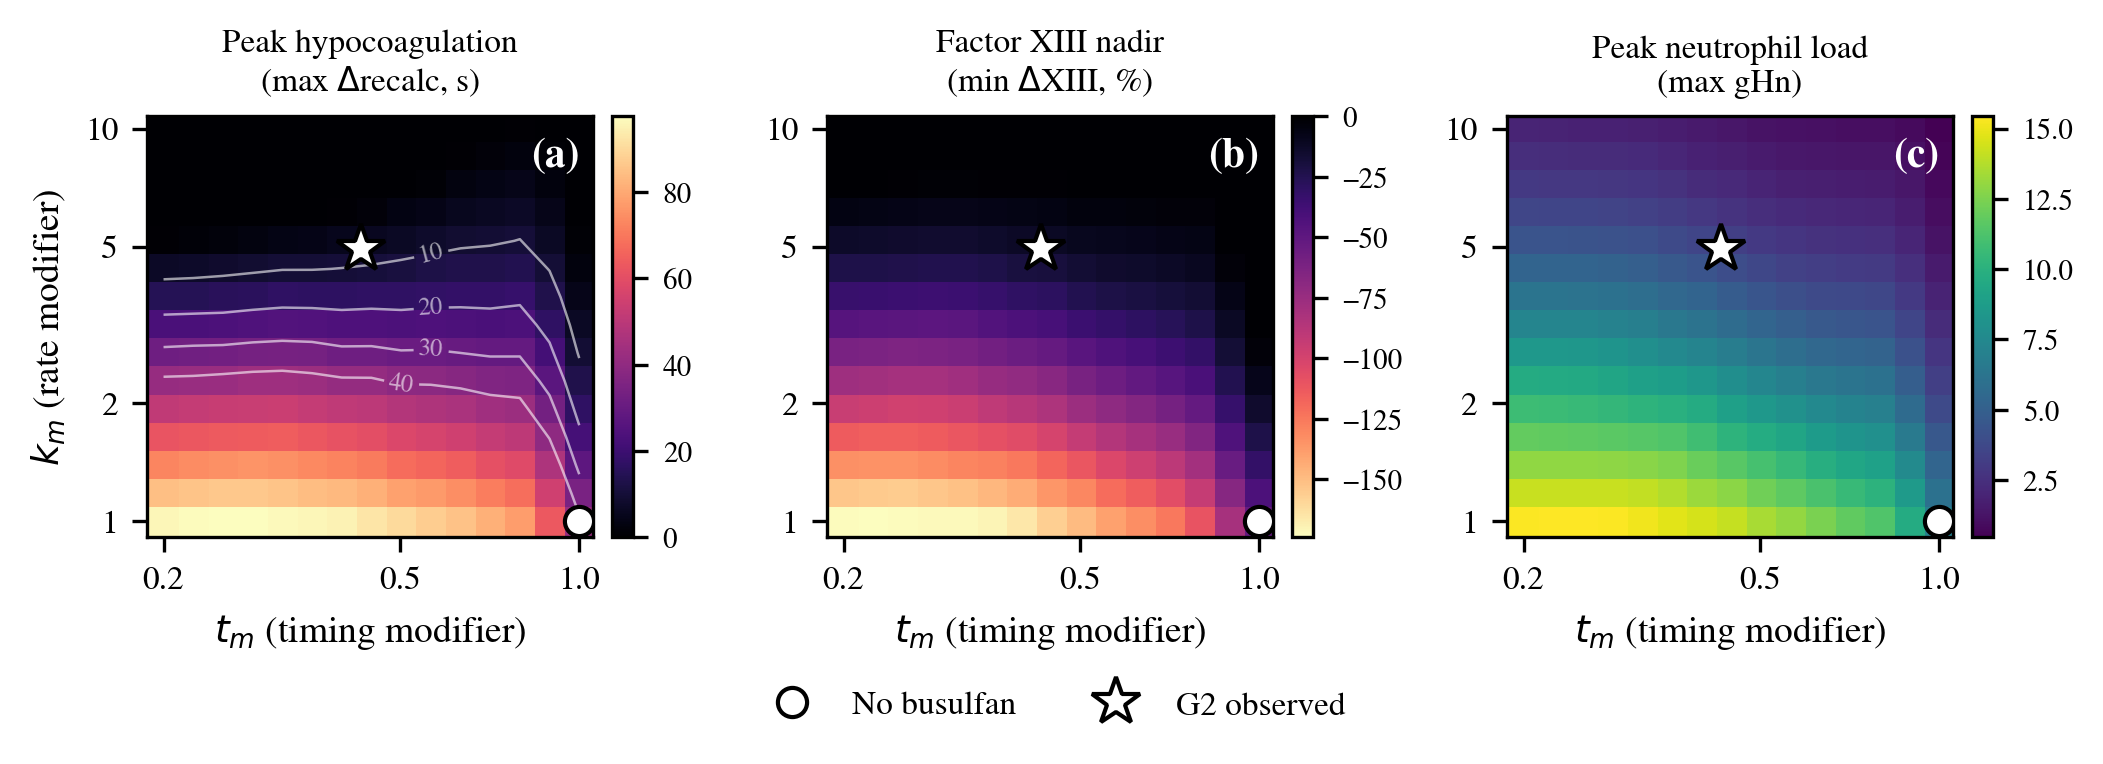
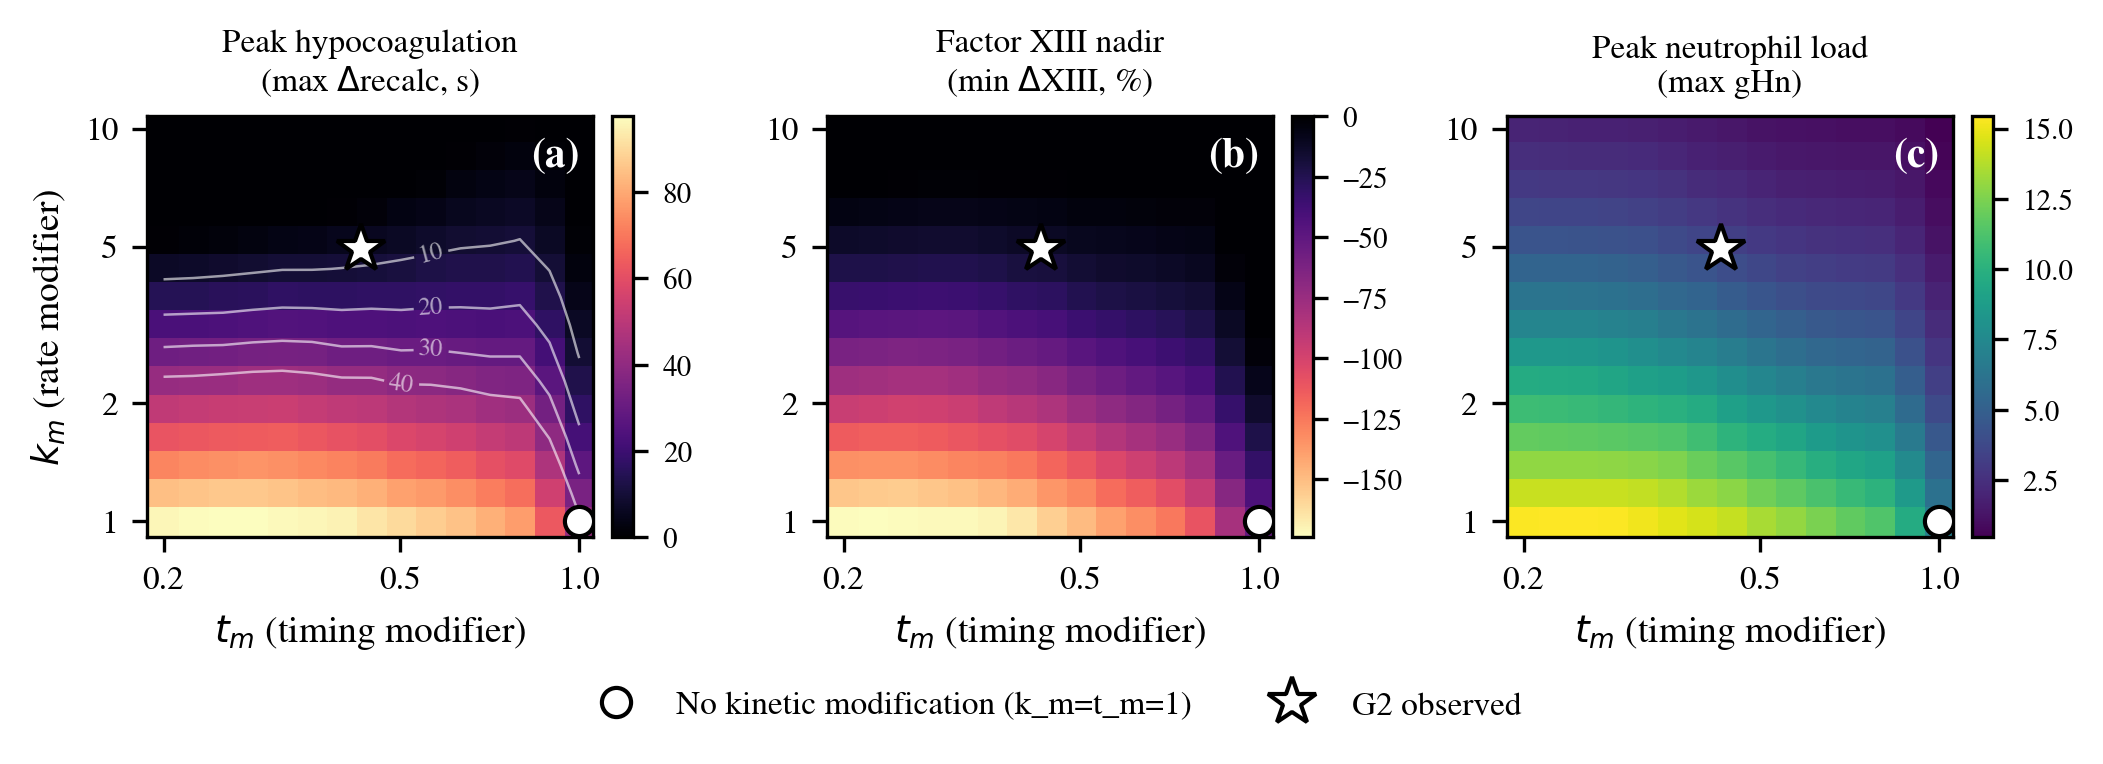
fix t_m mislabels in Fig 4/5 + S6.2.1: rate-driven protection, honest baselines
A pre-bioRxiv review (Editor + Developer cross-check, both verified against the
saved phase-diagram surfaces) found a cluster of mislabels around the (k_m, t_m)
dose-response, all sharing one root: on Figures 4/5 the neutrophil profile is the
Group II (suppressed-count) profile throughout, so the "k_m=t_m=1" cell is NOT
true no-busulfan (that is the Group I profile, Table 3, ~147 s) but the kinetics-
off corner of the 2x2 (cell C). Two t_m monotonicity statements were also wrong:
along t_m, lowering t_m RAISES severity (at k_m=1: 41.6 s at t_m=1 -> 92.3 s at
t_m~0.45 -> 96.1 s at t_m=0.2), so the fitted Group II protection is carried by
the rate modifier k_m; the low fitted t_m~0.43 (earlier inflammatory peak) is
mildly anti-protective, not protective. No surface, data, or computed value
changed — all S6.2 numbers (41.6/5.8/7x, -52.5/-11.8/4.5x, 206/83/2.5x) verified
correct against the JSON; these are label/sign-of-statement fixes only.

Seven edits + regenerated Fig 4/5:
- make_fig4.py: marker legend "No busulfan" -> "No kinetic modification (k_m=t_m=1)".
- draft.md Fig 4 caption: "no-busulfan reference" -> "no-kinetic-modification
  reference (... Group II count profile)"; monotonicity now "increasing k_m ...
  and with increasing t_m", with the k_m-carries-protection / t_m-mildly-anti-
  protective clause.
- S6.2.1: both t_m sentences corrected — "decreasing t_m" -> "increasing t_m"
  with the 41.6/92.3/96.1 progression; "time compression is the main protective
[…]

Changed region(s): [[0.2782, 0.9031, 0.7418, 0.9634]]

diff --git a/analyses/30_myelosan_dose/make_fig4.py b/analyses/30_myelosan_dose/make_fig4.py
@@ -73,7 +73,7 @@ def main():
 
         # reference points (neutral: white-edged)
         ax.plot(1.0, 1.0, marker="o", color="white", ms=7, mec="black",
-                mew=1.0, zorder=5, label="No busulfan")
+                mew=1.0, zorder=5, label="No kinetic modification (k_m=t_m=1)")
         ax.plot(TM_BASELINE_G2, KM_BASELINE_G2, marker="*", color="white",
                 ms=12, mec="black", mew=1.0, zorder=5,
                 label="G2 observed")

diff --git a/analyses/30_myelosan_dose/make_fig5.py b/analyses/30_myelosan_dose/make_fig5.py
@@ -48,7 +48,7 @@ def main():
 
     # no-myelosan level (km=1) reference
     ax.axhline(med[0], color="0.7", lw=0.7, ls=":", zorder=1)
-    ax.annotate("no busulfan", xy=(km[0], med[0]), xytext=(km[0] + 0.3, med[0] - 6),
+    ax.annotate("k_m=1 (no rate modification)", xy=(km[0], med[0]), xytext=(km[0] + 0.3, med[0] - 6),
                 fontsize=7, color="0.4", va="top")
 
     # observed G2 operating point (km=4.93)

diff --git a/manuscript/draft.md b/manuscript/draft.md
@@ -80,11 +80,11 @@ Table 3. Modeled severity metrics versus the corresponding in-sample Group I obs
 While the in-sample factor XIII and fibrinogen nadirs are accurately captured, the peak recalcification time is underestimated by 29%. Crucially, the model-predicted coagulopathy peak occurs precisely on day 11, aligning with the window of maximum empirical hypocoagulation and mortality (Figure 1, grey band). The model thus provides a directional and temporal representation of the pathogenetic landscape underlying cohort survival.
 ### Virtual experiments predict a biphasic therapeutic window and independent thresholds
 #### Dose–response dependence
-Holding the Group II neutrophil profile fixed, activating the fitted kinetic modifiers reduces peak hypocoagulation approximately 6-fold relative to the no-kinetic-effect case (§S6.5), while the integrated coagulation disturbance falls approximately 2.5-fold; across the full $k_m$ range, the dose-response surface shows a corresponding $\approx$7-fold corner reduction (Figure 4a, Figure 5). Decomposing this protective effect reveals that the absolute reduction in circulating neutrophil count and the modification of reaction kinetics function as pathways of comparable magnitude, yielding a 3.4-fold and 3.8-fold reduction in isolation, respectively. Their combined implementation drives the full 21-fold attenuation due to positive nonlinear interactions mediated by the effective coagulation load $g_{Hn}$ (Figure 4c; full dose–response phase diagrams and severity-metric definitions in Supplementary Appendix §S6).
+Holding the Group II neutrophil profile fixed, activating the fitted kinetic modifiers reduces peak hypocoagulation approximately 6-fold relative to the no-kinetic-effect case (§S6.5), while the integrated coagulation disturbance falls approximately 2.5-fold; across the full $k_m$ range, the dose-response surface shows a corresponding $\approx$7-fold corner reduction (Figure 4a, Figure 5). Decomposing this protective effect reveals that the absolute reduction in circulating neutrophil count and the modification of reaction kinetics function as pathways of comparable magnitude, yielding a 3.4-fold and 3.8-fold reduction in isolation, respectively. Their combined implementation drives the full 21-fold attenuation due to positive nonlinear interactions mediated by the effective coagulation load $g_{Hn}$ (Figure 4c; full dose–response phase diagrams and severity-metric definitions in Supplementary Appendix §S6). Within this kinetic axis, the protection is carried by the rate modifier $k_m$: severity falls monotonically as $k_m$ increases, whereas lowering $t_m$ (an earlier inflammatory peak) modestly raises it — at $k_m = 1$ the median peak rises from 41.6 s ($t_m = 1$) to 92.3 s ($t_m \approx 0.45$). The fitted Group II $t_m \approx 0.43$ thus reflects the observed earlier peak rather than an independent protective lever, and its effect is small at the fitted $k_m \approx 4.9$, where the $k_m$ axis dominates.
 
-Figure 4. Dose–response phase diagrams of the busulfan kinetic modifiers. Median severity surfaces over the ($k_m$, $t_m$) modifier grid, evaluated through the 100-member bootstrap ensemble with the Group II neutrophil profile held fixed ($15 \times 15$ log-spaced grid; $k_m$, rate modifier; $t_m$, timing modifier—the two group-specific busulfan parameters). Both axes are logarithmic. (a) Peak hypocoagulation (maximum $\Delta$recalcification time, s); white contours mark the 10, 20, 30 and 40 s levels. (b) Factor XIII nadir (minimum $\Delta$XIII activity, %). (c) Peak effective neutrophil-derived coagulation load (maximum $g_{Hn}$, the nonlinear amplification of the neutrophil-derived pool; §S1.4)—the mechanistic driver underlying panels a and b. In every panel the white circle marks the no-busulfan reference ($k_m = t_m = 1$) and the white star the fitted Group II operating point ($k_m \approx 4.93$, $t_m \approx 0.43$); severity falls monotonically with increasing $k_m$ and decreasing $t_m$. Severity-metric definitions are given in §S6.
+Figure 4. Dose–response phase diagrams of the busulfan kinetic modifiers. Median severity surfaces over the ($k_m$, $t_m$) modifier grid, evaluated through the 100-member bootstrap ensemble with the Group II neutrophil profile held fixed ($15 \times 15$ log-spaced grid; $k_m$, rate modifier; $t_m$, timing modifier—the two group-specific busulfan parameters). Both axes are logarithmic. (a) Peak hypocoagulation (maximum $\Delta$recalcification time, s); white contours mark the 10, 20, 30 and 40 s levels. (b) Factor XIII nadir (minimum $\Delta$XIII activity, %). (c) Peak effective neutrophil-derived coagulation load (maximum $g_{Hn}$, the nonlinear amplification of the neutrophil-derived pool; §S1.4)—the mechanistic driver underlying panels a and b. In every panel the white circle marks the no-kinetic-modification reference ($k_m = t_m = 1$, on the held-fixed Group II count profile) and the white star the fitted Group II operating point ($k_m \approx 4.93$, $t_m \approx 0.43$); severity falls monotonically with increasing $k_m$ (rate suppression) and with increasing $t_m$, so the Group II protection is carried by $k_m$, while the low fitted $t_m \approx 0.43$ (an earlier inflammatory peak) is mildly anti-protective rather than protective. Severity-metric definitions are given in §S6.
 
-Figure 5. Dose–response slice along the rate modifier at the observed timing. Peak hypocoagulation (maximum $\Delta$recalcification time, s) versus the busulfan rate modifier $k_m$, at fixed timing modifier $t_m \approx 0.45$ (the grid value nearest the fitted Group II $t_m = 0.43$), from the 100-member bootstrap ensemble. Blue line, ensemble median; shaded band, 95% bootstrap confidence interval. The dotted horizontal line marks the no-busulfan level ($k_m = 1$); the dashed vertical line and red triangle mark the fitted Group II dose ($k_m \approx 4.93$), at which the median peak hypocoagulation falls to approximately 7 s. The slice complements the Figure 4a surface by showing the bootstrap uncertainty along the dose axis.
+Figure 5. Dose–response slice along the rate modifier at the observed timing. Peak hypocoagulation (maximum $\Delta$recalcification time, s) versus the busulfan rate modifier $k_m$, at fixed timing modifier $t_m \approx 0.45$ (the grid value nearest the fitted Group II $t_m = 0.43$), from the 100-member bootstrap ensemble. Blue line, ensemble median; shaded band, 95% bootstrap confidence interval. The dotted horizontal line marks the rate-off level ($k_m = 1$) along this fixed-$t_m \approx 0.45$ slice ($\approx$92 s, Group II count profile); it is the slice's own left endpoint, not the untreated-DIC level, which is higher still (fully unsuppressed Group I $\approx$147 s, Table 3); the dashed vertical line and red triangle mark the fitted Group II dose ($k_m \approx 4.93$), at which the median peak hypocoagulation falls to approximately 7 s. The slice complements the Figure 4a surface by showing the bootstrap uncertainty along the dose axis.
 
 #### Biphasic therapeutic window
 Varying the onset of myelosuppression ($t_{\text{intervention}}$) reveals a distinct, biphasic therapeutic window (Figure 6). Intervention initiated within the first 2.5 days achieves near-complete attenuation of the coagulopathy, maintaining peak hypocoagulation shifts at 7–8 s. A transition phase occurs between days 2.5 and 3, over which the median peak severity approximately doubles (7.9 s to 14.4 s), though the absolute 95% uncertainty bands overlap. Delayed intervention after day 3 provides only partial mitigation—limiting peak severity 2- to 3-fold relative to the untreated reference—but cannot prevent acute cascade activation. This establishes an early prevention phase (0–2.5 days) and a late mitigation phase (2.5–6+ days). The full two-segment timing protocol and per-scenario temporal metrics are given in Supplementary Appendix §S5.

diff --git a/supplementary/S6_phase_diagrams.md b/supplementary/S6_phase_diagrams.md
@@ -33,7 +33,7 @@ These baseline-cell figures are produced by a dedicated, reproducible script (`a
 
 ### S6.2.1 max\_recalc (peak hypocoagulation)
 
-Shown in main text, Figure 4, panel (a). Across the $(k_m, t_m)$ grid, the median surface decreases monotonically both with increasing $k_m$ (stronger rate suppression) and with decreasing $t_m$ (compressed inflammatory peak time). At the no-kinetic-effect corner ($k_m = 1$, $t_m = 1$), the median is $\approx 41.6$ s; at the Group II baseline ($k_m \approx 4.93$, $t_m \approx 0.43$) — $\approx 5.8$ s, a 7-fold reduction. The 10-s contour marked on the figure defines the approximate boundary of the protected region; cells inside this contour yield outcomes comparable to Group II. Sensitivity to $t_m$ is highest at low $k_m$ (where rate suppression is weak and time compression is the main protective lever); at high $k_m$ the surface is dominated by the $k_m$ axis.
+Shown in main text, Figure 4, panel (a). Across the $(k_m, t_m)$ grid, the median surface decreases monotonically with increasing $k_m$ (stronger rate suppression) and with increasing $t_m$. Lowering $t_m$ (a compressed, earlier inflammatory peak) instead raises severity — at $k_m=1$ the median rises from 41.6 s at $t_m=1$ to 92.3 s at $t_m\approx0.45$ and 96.1 s at $t_m=0.2$ — so the Group II protection is rate-driven ($k_m$), and the fitted $t_m\approx0.43$ is mildly anti-protective rather than protective. At the no-kinetic-effect corner ($k_m = 1$, $t_m = 1$), the median is $\approx 41.6$ s; at the Group II baseline ($k_m \approx 4.93$, $t_m \approx 0.43$) — $\approx 5.8$ s, a 7-fold reduction. The 10-s contour marked on the figure defines the approximate boundary of the protected region; cells inside this contour yield outcomes comparable to Group II. Sensitivity to $t_m$ is highest at low $k_m$, where rate suppression is weak; there the $t_m$ dependence is steepest, though in the anti-protective direction — at high $k_m$ the surface is dominated by the $k_m$ axis.
 
 ### S6.2.2 min\_xiii (factor XIII nadir)
 